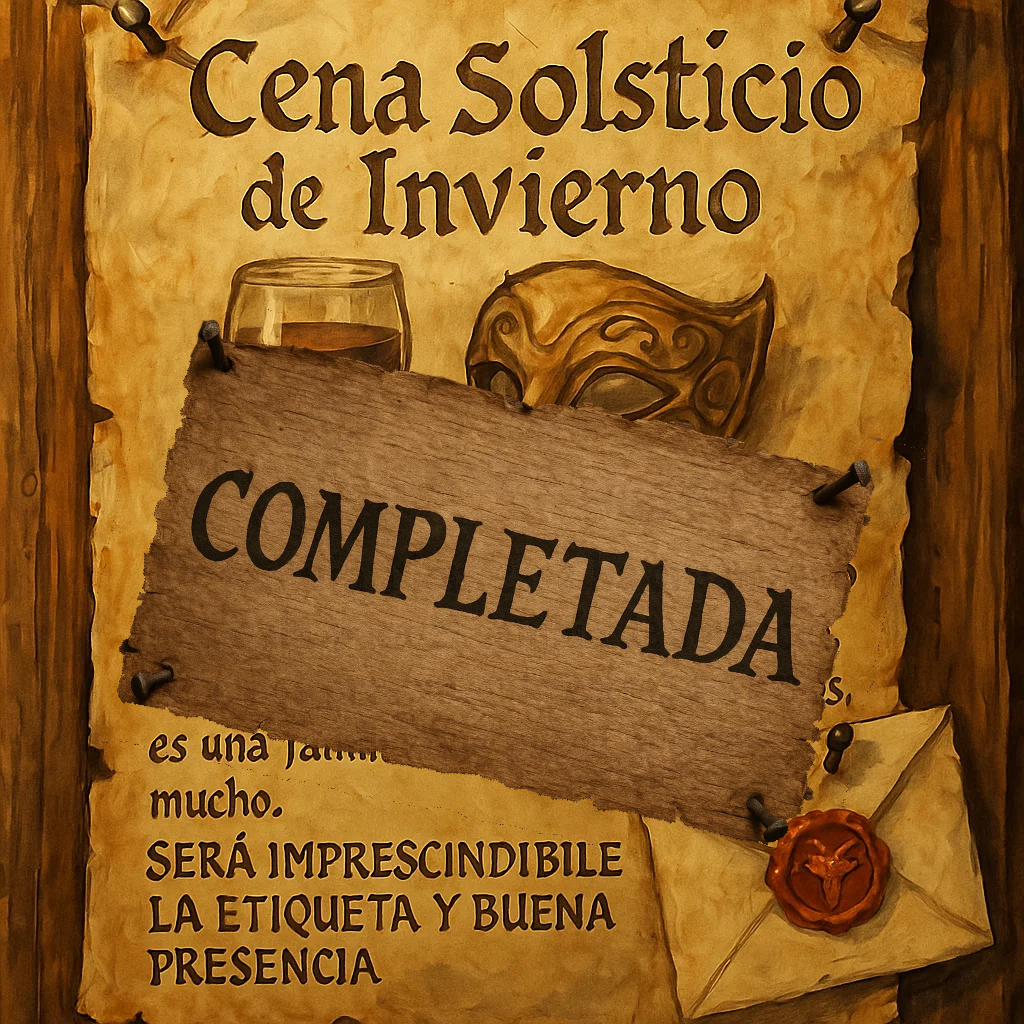
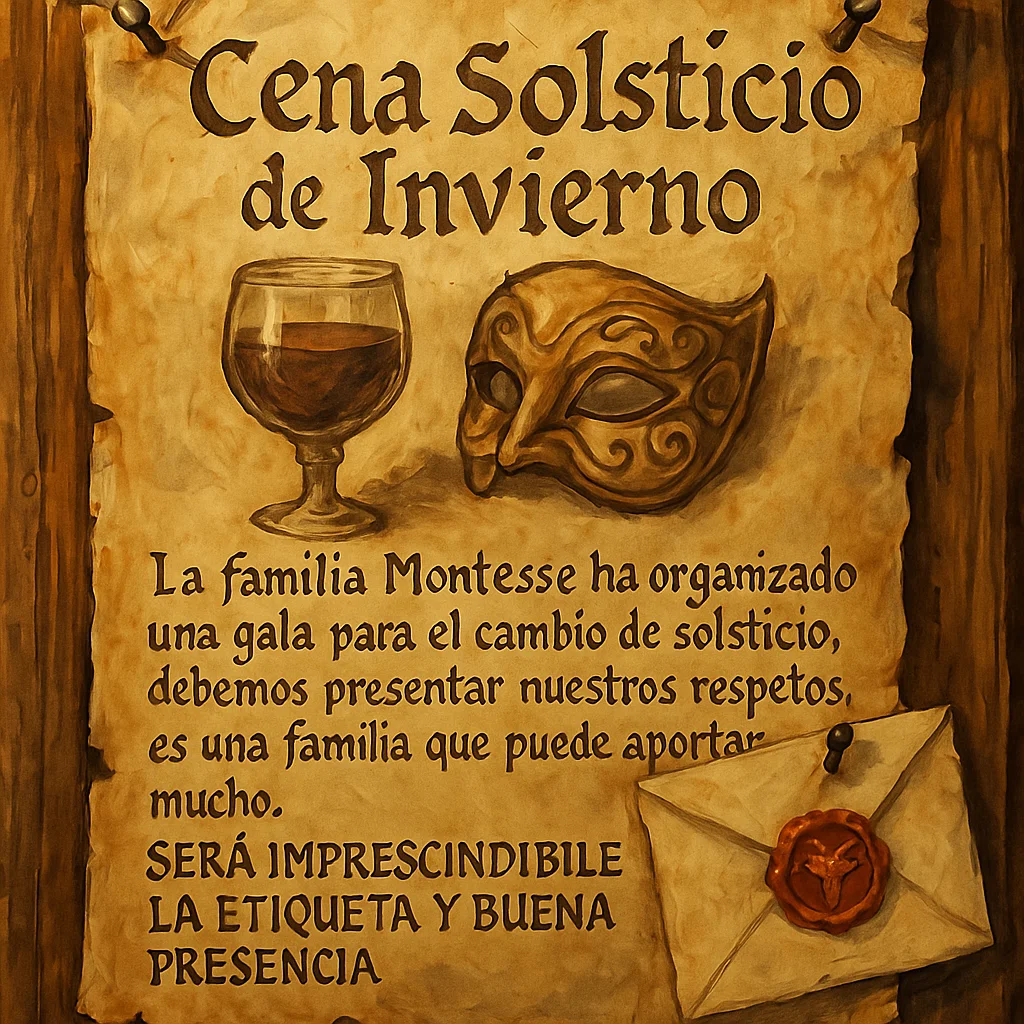
feat: completed

Changed region(s): [[0.0938, 0.3125, 0.875, 0.8438]]

diff --git a/src/components/CampHub.tsx b/src/components/CampHub.tsx
@@ -54,14 +54,22 @@ const spriteIcon = (
   rotation?: number,
   disabled?: boolean,
   scale = 1,
+  completed?: boolean,
 ) => {
   const scaledWidth = Math.round(width * scale)
   const scaledHeight = Math.round(height * scale)
 
+  const randomRotation = Math.floor(Math.random() * 40) - 20
+
   return L.divIcon({
     className: 'camp-hub__sprite-icon',
     html: `<div class="camp-hub__sprite${disabled ? ' camp-hub__sprite--disabled' : ''}" style="width:${scaledWidth}px;height:${scaledHeight}px;--sprite-rotation:${rotation ?? 0
-      }deg;"><img src="${src}" alt="" /></div>`,
+      }deg;">
+            ${completed ? `
+          <img src="/assets/boards/notes/complete.png" alt="Misión completada" style="position:absolute; top:3rem; width:100%; height:70%; transform: rotate(${randomRotation}deg);" />
+        ` : ''}
+          
+      <img src="${src}" alt="" /></div>`,
     iconSize: [scaledWidth, scaledHeight],
     iconAnchor: [scaledWidth / 2, scaledHeight / 2],
   })
@@ -150,6 +158,7 @@ function SceneCanvas({
               element.sprite.rotation,
               !isInteractive,
               iconScale,
+              element.completed
             )
             : pinIcon(undefined, !isInteractive, iconScale)
         const tooltip = element.name
@@ -487,14 +496,16 @@ function PanelContent({ config, panel, onJoinQuest }: PanelContentProps) {
             <img src={portraitUrl} alt="" />
           </div>
         )}
-        <header>
-          <h3>{panel.title}</h3>
-          {panel.subtitle && (
-            <div className="camp-hub__markdown">
-              <ReactMarkdown rehypePlugins={[rehypeRaw]}>{panel.subtitle}</ReactMarkdown>
-            </div>
-          )}
-        </header>
+        {panel.title || panel.subtitle ? (
+          <header>
+            {panel.title && <h3>{panel.title}</h3>}
+            {panel.subtitle && (
+              <div className="camp-hub__markdown">
+                <ReactMarkdown rehypePlugins={[rehypeRaw]}>{panel.subtitle}</ReactMarkdown>
+              </div>
+            )}
+          </header>
+        ) : null}
 
         <table className="camp-hub__table">
           <thead>
@@ -542,9 +553,12 @@ function PanelContent({ config, panel, onJoinQuest }: PanelContentProps) {
     const imageUrl = resolveAsset(config.assetsBaseUrl, panel.image)
     return (
       <div className="camp-hub__panel-content">
-        <header>
-          <h3>{panel.title}</h3>
-        </header>
+        {panel.title && (
+          <header>
+            <h3>{panel.title}</h3>
+          </header>
+        )}
+
         <div className="camp-hub__panel-image">
           <img src={imageUrl} alt="" />
         </div>

diff --git a/src/App.tsx b/src/App.tsx
@@ -360,7 +360,7 @@ function App() {
 
   useEffect(() => {
     const handleMessage = async (event: MessageEvent) => {
-      if (event.origin !== 'https://hispania.thedm.es' /* && event.origin !== 'http://localhost:5174' */) {
+      if (event.origin !== 'https://hispania.thedm.es' && event.origin !== 'http://localhost:5173') {
         console.warn('Origen de mensaje no autorizado:', event.origin)
         return
       }

diff --git a/src/lib/types.ts b/src/lib/types.ts
@@ -67,6 +67,7 @@ export type HubElement = {
     label: string
   }
   navigation?: HubNavigationTarget
+  completed?: boolean
 }
 
 export type MarkdownBlock =